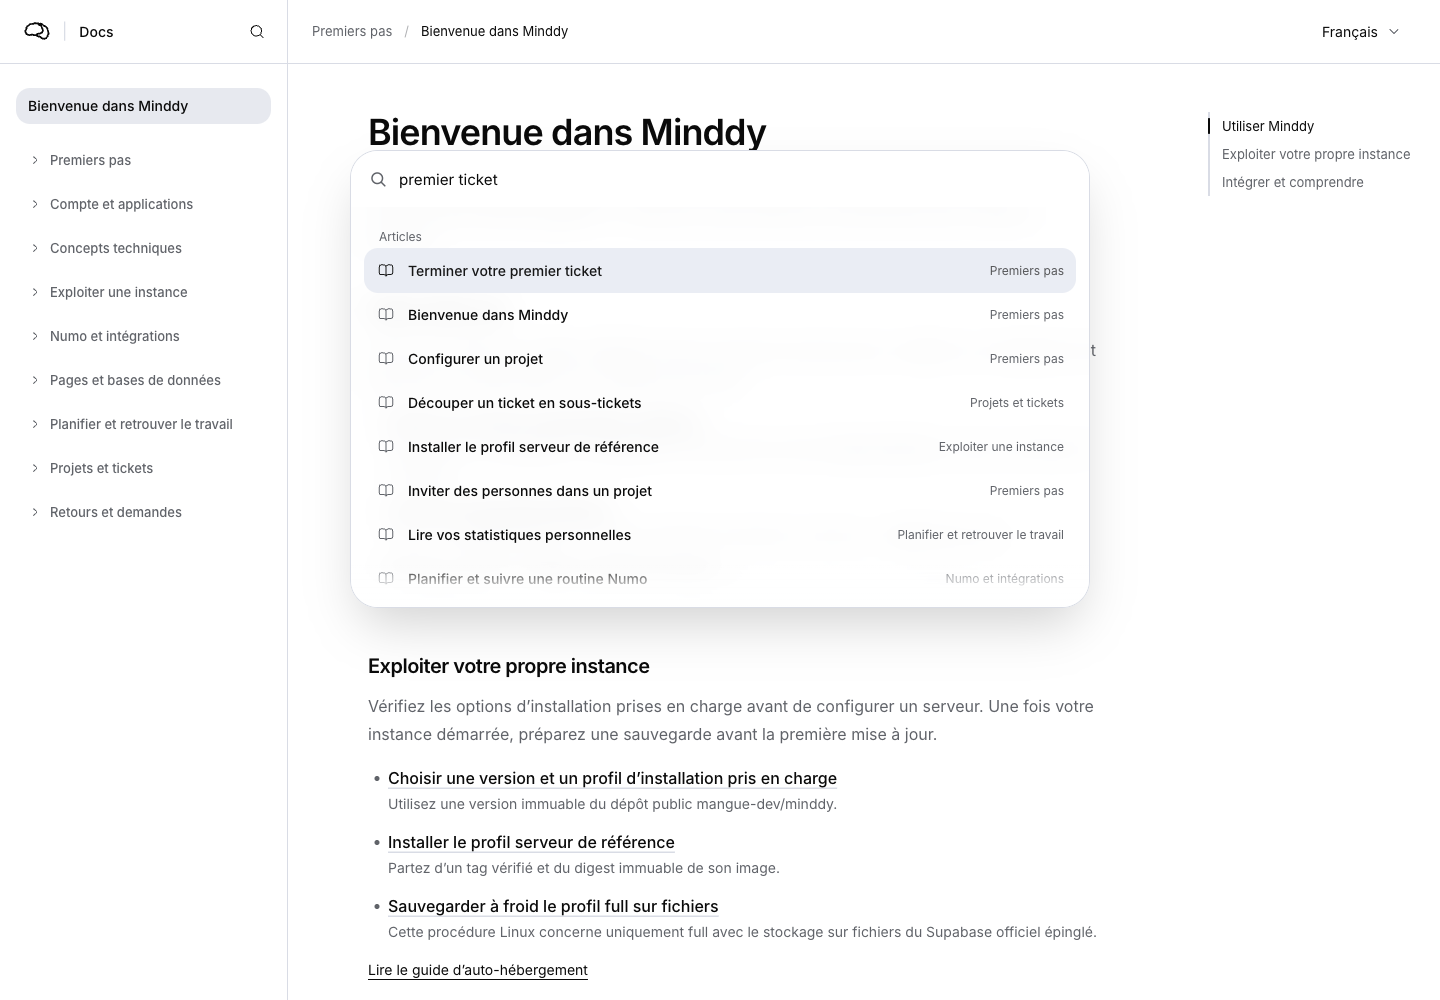
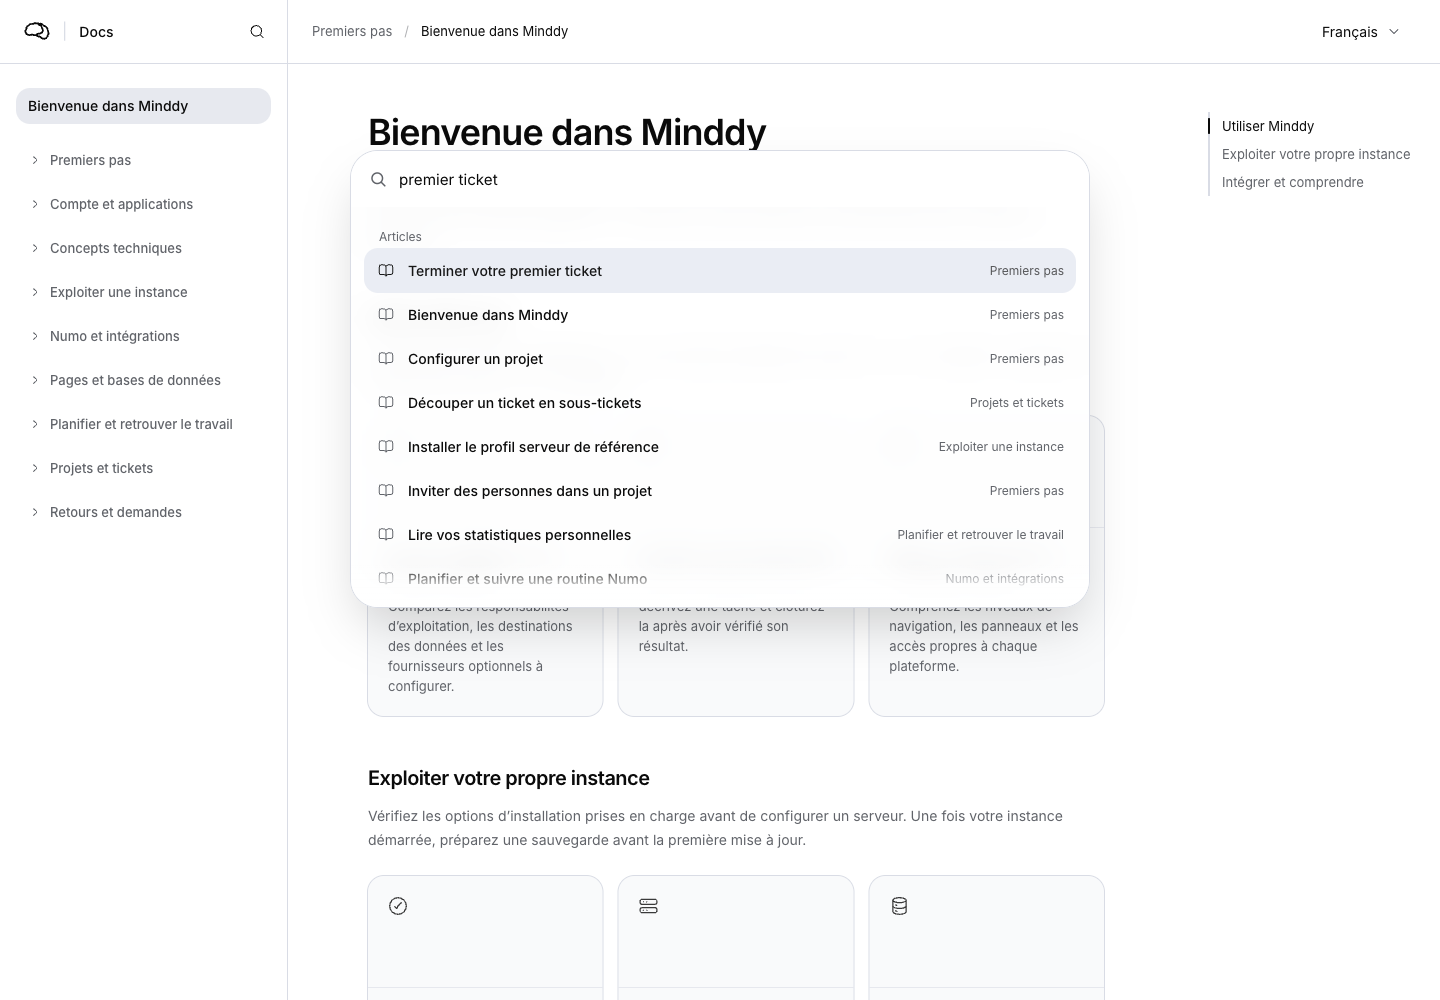
feat(docs): present welcome guides as cards
Replace the welcome article lists with nine linked mangue-ui cards inspired by the Linear Docs overview. Use Hugeicons, hover and keyboard focus feedback, and container-based responsive columns while preserving the six-language guide content and section anchors.

Verified 66 targeted tests, lint, typecheck, owned-English and diff checks, plus keyboard navigation, contents highlighting, six localized routes and five viewport widths. Refresh the welcome and search screenshots and add dark, mobile and full-page welcome captures.

diff --git a/components/documentation/documentation-welcome.tsx b/components/documentation/documentation-welcome.tsx
@@ -1,4 +1,8 @@
 import { getTranslations } from "next-intl/server";
+import Link from "next/link";
+import { Card, CardContent } from "mangue-ui";
+import { HugeiconsIcon } from "@hugeicons/react";
+import { ApiIcon, ArrowRight01Icon, CheckmarkCircle01Icon, CloudServerIcon, Compass01Icon, DatabaseIcon, Rocket01Icon, ServerStack01Icon, Share01Icon, WorkflowSquare01Icon } from "@hugeicons/core-free-icons";
 import type { Locale } from "@/i18n/config";
 import type { DocumentationArticle } from "@/lib/documentation";
 import { documentationPath } from "@/lib/documentation-core.mjs";
@@ -11,9 +15,15 @@ export async function DocumentationWelcome({ articles, locale, query = "", previ
 }) {
   const t = await getTranslations({ locale, namespace: "Documentation" });
   const guides = [
-    { id: "use", title: t("use"), intro: t("welcomeUse"), articles: ["choose-an-instance", "first-project", "navigation"] },
-    { id: "operate", title: t("operate"), intro: t("welcomeOperate"), articles: ["self-hosted-compatibility", "install-a-server", "back-up-the-reference-instance"] },
-    { id: "integrate", title: t("integrate"), intro: t("welcomeIntegrate"), articles: ["glossary-and-data-model", "architecture-and-data-flows", "external-minddy-mcp"] },
+    { id: "use", title: t("use"), intro: t("welcomeUse"), articles: [
+      { id: "choose-an-instance", icon: CloudServerIcon }, { id: "first-project", icon: Rocket01Icon }, { id: "navigation", icon: Compass01Icon },
+    ] },
+    { id: "operate", title: t("operate"), intro: t("welcomeOperate"), articles: [
+      { id: "self-hosted-compatibility", icon: CheckmarkCircle01Icon }, { id: "install-a-server", icon: ServerStack01Icon }, { id: "back-up-the-reference-instance", icon: DatabaseIcon },
+    ] },
+    { id: "integrate", title: t("integrate"), intro: t("welcomeIntegrate"), articles: [
+      { id: "glossary-and-data-model", icon: WorkflowSquare01Icon }, { id: "architecture-and-data-flows", icon: Share01Icon }, { id: "external-minddy-mcp", icon: ApiIcon },
+    ] },
   ];
   const sections = guides.map(({ id, title }) => ({ id, title, level: 2 }));
   return <DocumentationShell articles={articles} locale={locale} currentId={null} title={t("welcome")}
@@ -22,16 +32,32 @@ export async function DocumentationWelcome({ articles, locale, query = "", previ
     <p className="mt-4 text-lg leading-relaxed text-muted-foreground">{t("welcomeSummary")}</p>
     {preview && <p className="mt-4 rounded-lg border border-border bg-muted p-3 text-sm" role="status">{t("draftPreview")}</p>}
     {!articles.length && <p className="mt-8 text-muted-foreground">{t("empty")}</p>}
-    {guides.map(guide => <section key={guide.id} id={guide.id} tabIndex={-1} className="mt-10 scroll-mt-40 sm:scroll-mt-32 xl:scroll-mt-24">
+    {guides.map(guide => <section key={guide.id} id={guide.id} tabIndex={-1} className="@container mt-12 scroll-mt-40 sm:scroll-mt-32 xl:scroll-mt-24">
       <h2 className="text-xl font-semibold tracking-tight">{guide.title}</h2>
-      <p className="mt-3 leading-7 text-muted-foreground">{guide.intro}</p>
-      <ul className="mt-4 list-disc space-y-3 pl-5 leading-7 marker:text-muted-foreground">
-        {guide.articles.map(id => articles.find(article => article.id === id)).filter(article => article !== undefined).map(article => <li key={article.id}>
-          <a href={documentationPath(article.id, locale)} className="font-medium underline decoration-border underline-offset-4 hover:decoration-current focus-visible:outline-2 focus-visible:outline-ring">{article.title}</a>
-          <p className="text-sm leading-6 text-muted-foreground">{article.summary}</p>
-        </li>)}
+      <p className="mt-3 text-sm leading-6 text-muted-foreground">{guide.intro}</p>
+      <ul className="mt-6 grid grid-cols-1 gap-4 @min-[26rem]:grid-cols-2 @min-[42rem]:grid-cols-3">
+        {guide.articles.map(({ id, icon }) => {
+          const article = articles.find(article => article.id === id);
+          return article && <li key={article.id} className="min-w-0">
+            <Link href={documentationPath(article.id, locale)} prefetch={false} aria-labelledby={`guide-${article.id}`}
+              className="group block h-full rounded-lg focus-visible:outline-2 focus-visible:outline-offset-4 focus-visible:outline-ring">
+              <Card className="h-full gap-0 rounded-lg bg-muted/25 py-0 ring-border transition-colors duration-200 group-hover:bg-muted/50 group-hover:ring-foreground/20 group-focus-visible:ring-ring">
+                <div className="flex h-28 shrink-0 items-start justify-between border-b border-border/60 p-5">
+                  <HugeiconsIcon icon={icon} className="size-5 text-foreground/80" aria-hidden />
+                  <HugeiconsIcon icon={ArrowRight01Icon} className="size-4 -translate-x-1 text-muted-foreground opacity-0 transition-[opacity,transform] duration-200 group-hover:translate-x-0 group-hover:opacity-100 group-focus-visible:translate-x-0 group-focus-visible:opacity-100 motion-reduce:transition-none" aria-hidden />
+                </div>
+                <CardContent className="space-y-2 p-5">
+                  <h3 id={`guide-${article.id}`} className="text-sm font-medium leading-5">{article.title}</h3>
+                  <p className="text-[13px] leading-5 text-muted-foreground">{article.summary}</p>
+                </CardContent>
+              </Card>
+            </Link>
+          </li>;
+        })}
       </ul>
-      {guide.id === "operate" && <a href={localizedHref("/self-hosting", locale)} className="mt-4 inline-block text-sm underline underline-offset-4">{t("selfHosting")}</a>}
+      {guide.id === "operate" && <Link href={localizedHref("/self-hosting", locale)} className="mt-5 inline-flex items-center gap-2 rounded text-sm text-muted-foreground hover:text-foreground focus-visible:outline-2 focus-visible:outline-ring">
+        {t("selfHosting")}<HugeiconsIcon icon={ArrowRight01Icon} className="size-4" aria-hidden />
+      </Link>}
     </section>)}
   </DocumentationShell>;
 }
